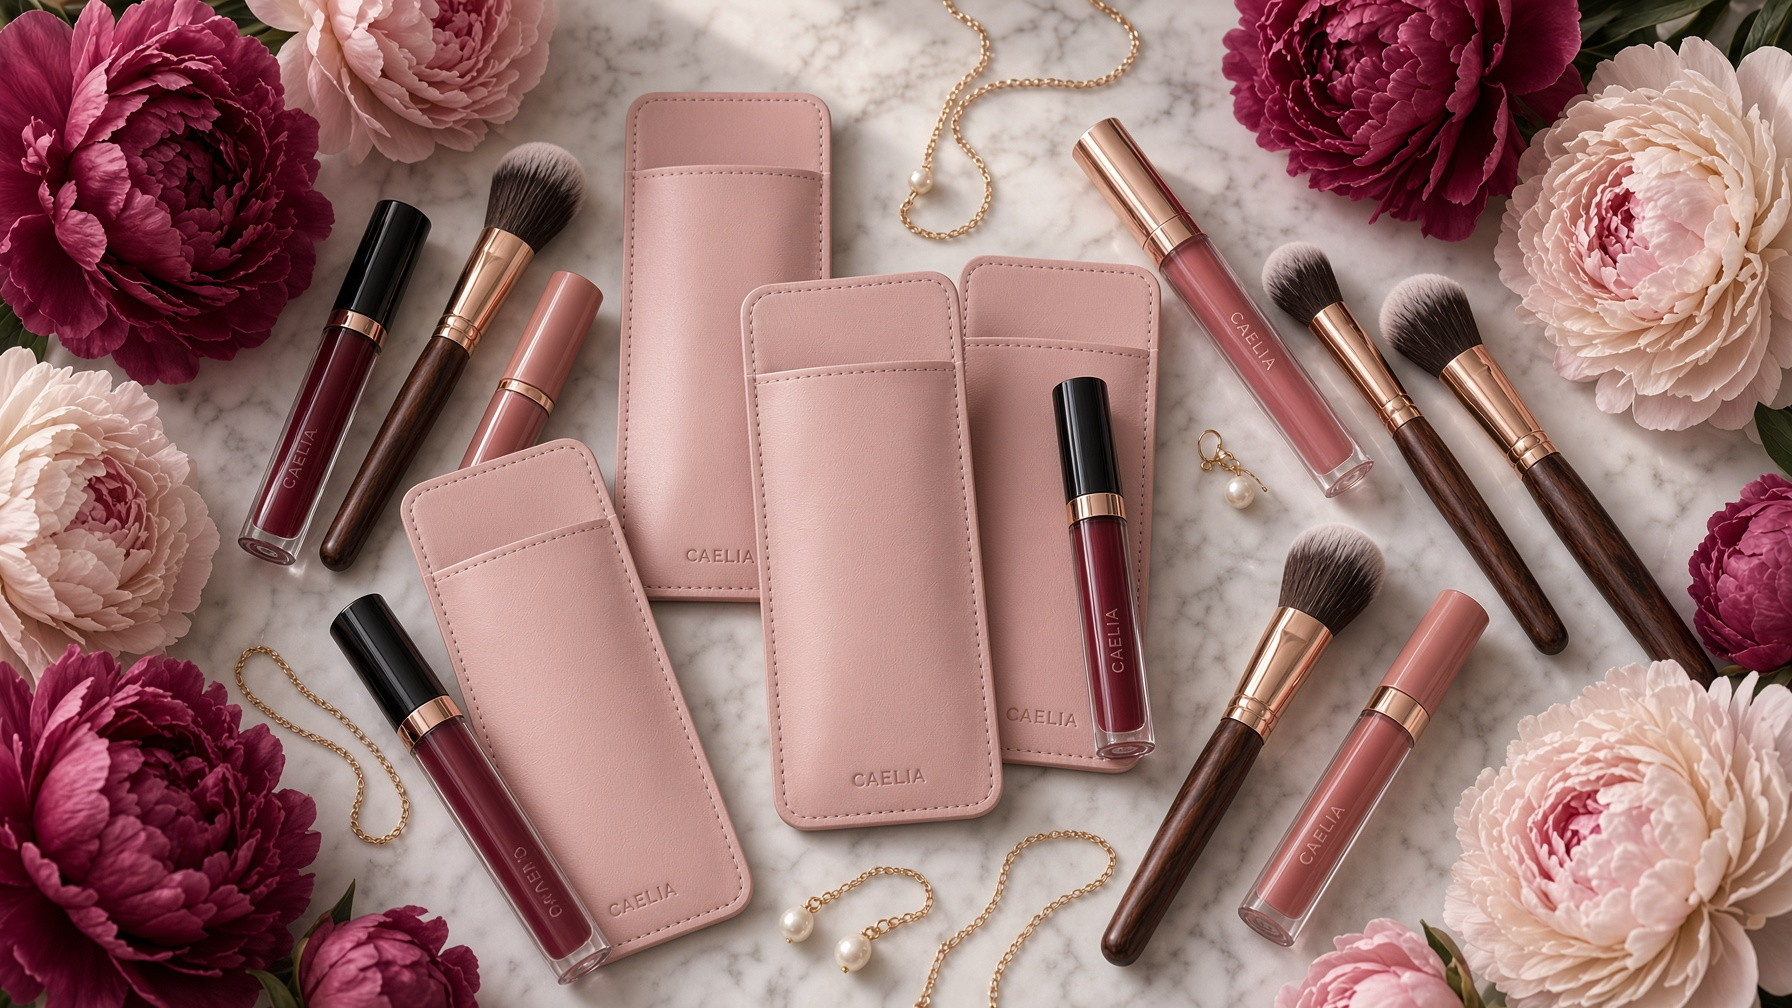
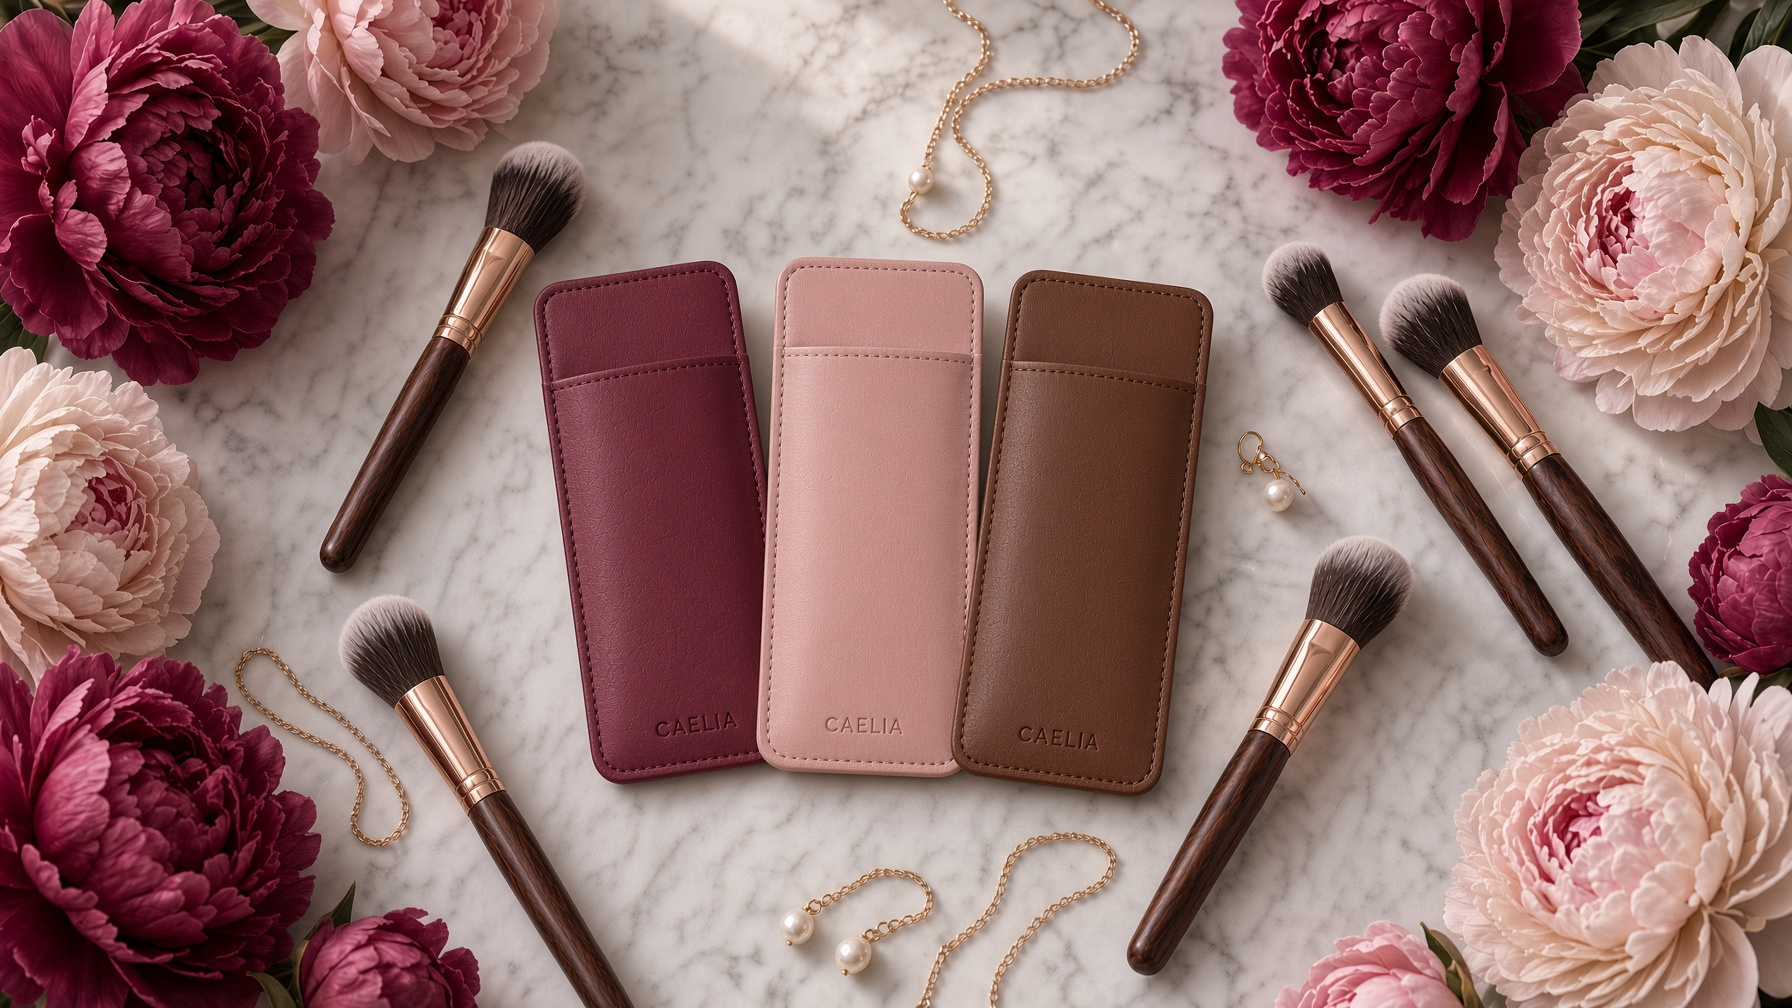
Replace still life with three colorways; Carla photo as the hold image.

diff --git a/src/routes/about.tsx b/src/routes/about.tsx
@@ -6,10 +6,10 @@ export const Route = createFileRoute("/about")({ component: AboutPage });
 const ease = [0.23, 1, 0.32, 1] as const;
 
 const frames = [
+  { src: "/campaign/life-carla.jpg", alt: "Carla con CAELIA Burgundy Berry" },
   { src: "/campaign/life-apply.jpg", alt: "Il gesto" },
-  { src: "/campaign/life-hold-rosa.jpg", alt: "Rosa nude in mano" },
+  { src: "/campaign/life-flatlay.jpg", alt: "Still life tre colori" },
   { src: "/campaign/life-portrait.jpg", alt: "Ritratto" },
-  { src: "/campaign/life-flatlay.jpg", alt: "Still life" },
   { src: "/campaign/life-meadow.jpg", alt: "Nel prato" },
 ];
 
@@ -36,8 +36,8 @@ function AboutPage() {
           </p>
         </motion.div>
         <motion.img
-          src="/campaign/life-hold-rosa.jpg"
-          alt="Rosa nude in mano"
+          src="/campaign/life-carla.jpg"
+          alt="Carla con l’astuccio CAELIA Burgundy Berry"
           className="aspect-4/5 w-full object-cover"
           initial={{ opacity: 0, y: 20 }}
           whileInView={{ opacity: 1, y: 0 }}
@@ -73,7 +73,7 @@ function AboutPage() {
       <section className="overflow-hidden">
         <img
           src="/campaign/life-flatlay.jpg"
-          alt="Still life CAELIA — peonie, gloss, pennelli"
+          alt="Still life CAELIA — tre colori, peonie"
           className="aspect-16/9 w-full object-cover"
           loading="lazy"
           decoding="async"

diff --git a/src/lib/products.ts b/src/lib/products.ts
@@ -39,8 +39,8 @@ export const products: Product[] = [
     images: [
       { src: "/campaign/pair-berry.jpg", alt: "Burgundy Berry — astuccio e specchio" },
       { src: "/campaign/model-berry.jpg", alt: "Burgundy Berry — packshot" },
+      { src: "/campaign/life-carla.jpg", alt: "Carla con Burgundy Berry" },
       { src: "/campaign/zoom-berry-logo.jpg", alt: "Logo CAELIA inciso" },
-      { src: "/campaign/edit-drip.jpg", alt: "Gloss sul logo" },
     ],
     features,
   },
@@ -57,8 +57,7 @@ export const products: Product[] = [
       { src: "/campaign/pair-rosa.jpg", alt: "Rosa nude — astuccio e specchio" },
       { src: "/campaign/model-rosa.jpg", alt: "Rosa nude — packshot" },
       { src: "/campaign/life-apply.jpg", alt: "Rosa nude, il gesto" },
-      { src: "/campaign/life-hold-rosa.jpg", alt: "Rosa nude in mano" },
-      { src: "/campaign/life-flatlay.jpg", alt: "Rosa nude, still life" },
+      { src: "/campaign/life-flatlay.jpg", alt: "Tre colori, still life" },
     ],
     features,
   },

diff --git a/src/routes/index.tsx b/src/routes/index.tsx
@@ -14,9 +14,9 @@ function Home() {
       <FilmChapter
         n="03"
         title="Il gesto."
-        body="Rosa nude in mano. Cinque matite, uno specchio."
-        src="/campaign/life-apply.jpg"
-        alt="Il gesto con Rosa nude"
+        body="Carla, Burgundy Berry in mano. Specchio e matita."
+        src="/campaign/life-carla.jpg"
+        alt="Carla con CAELIA Burgundy Berry"
       />
       <FilmChapter
         n="04"
